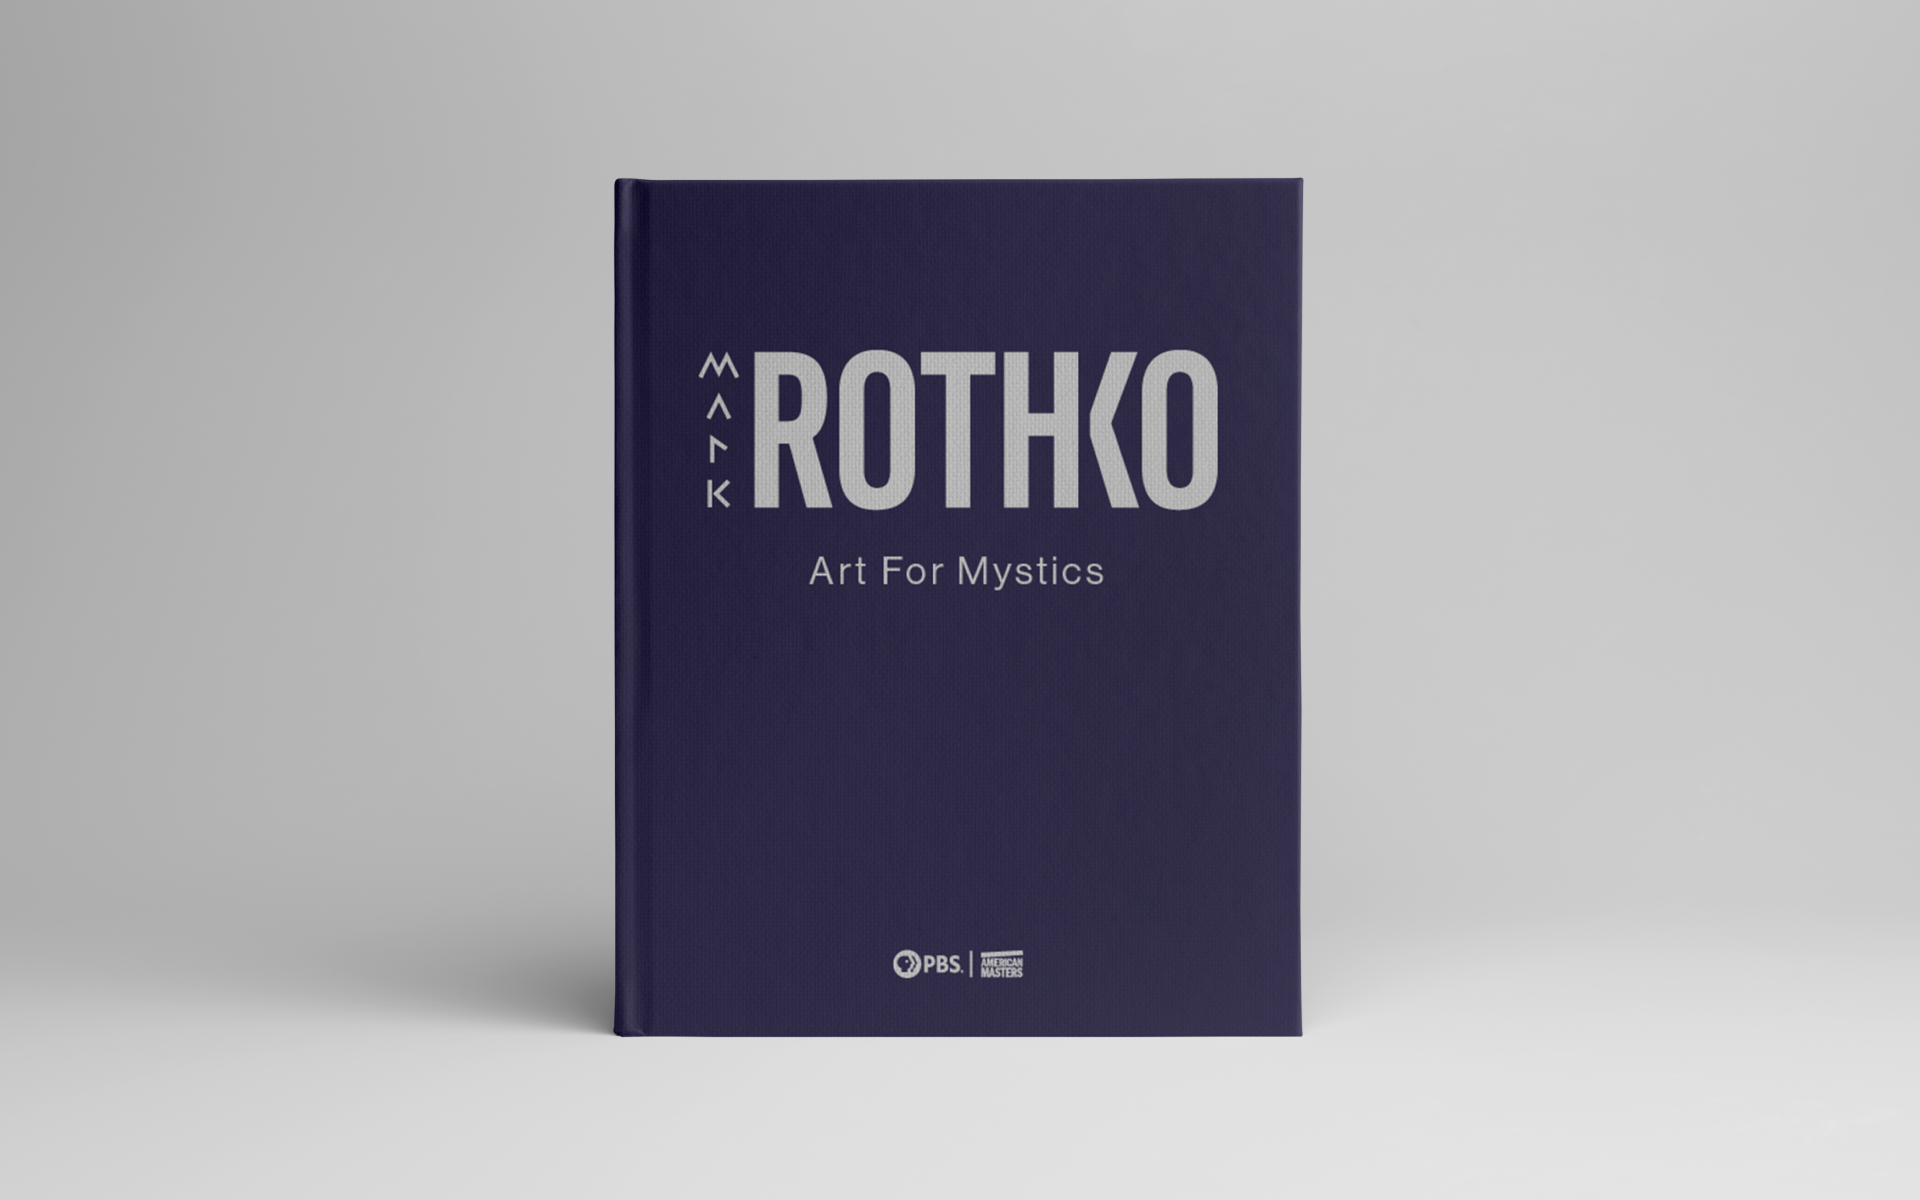
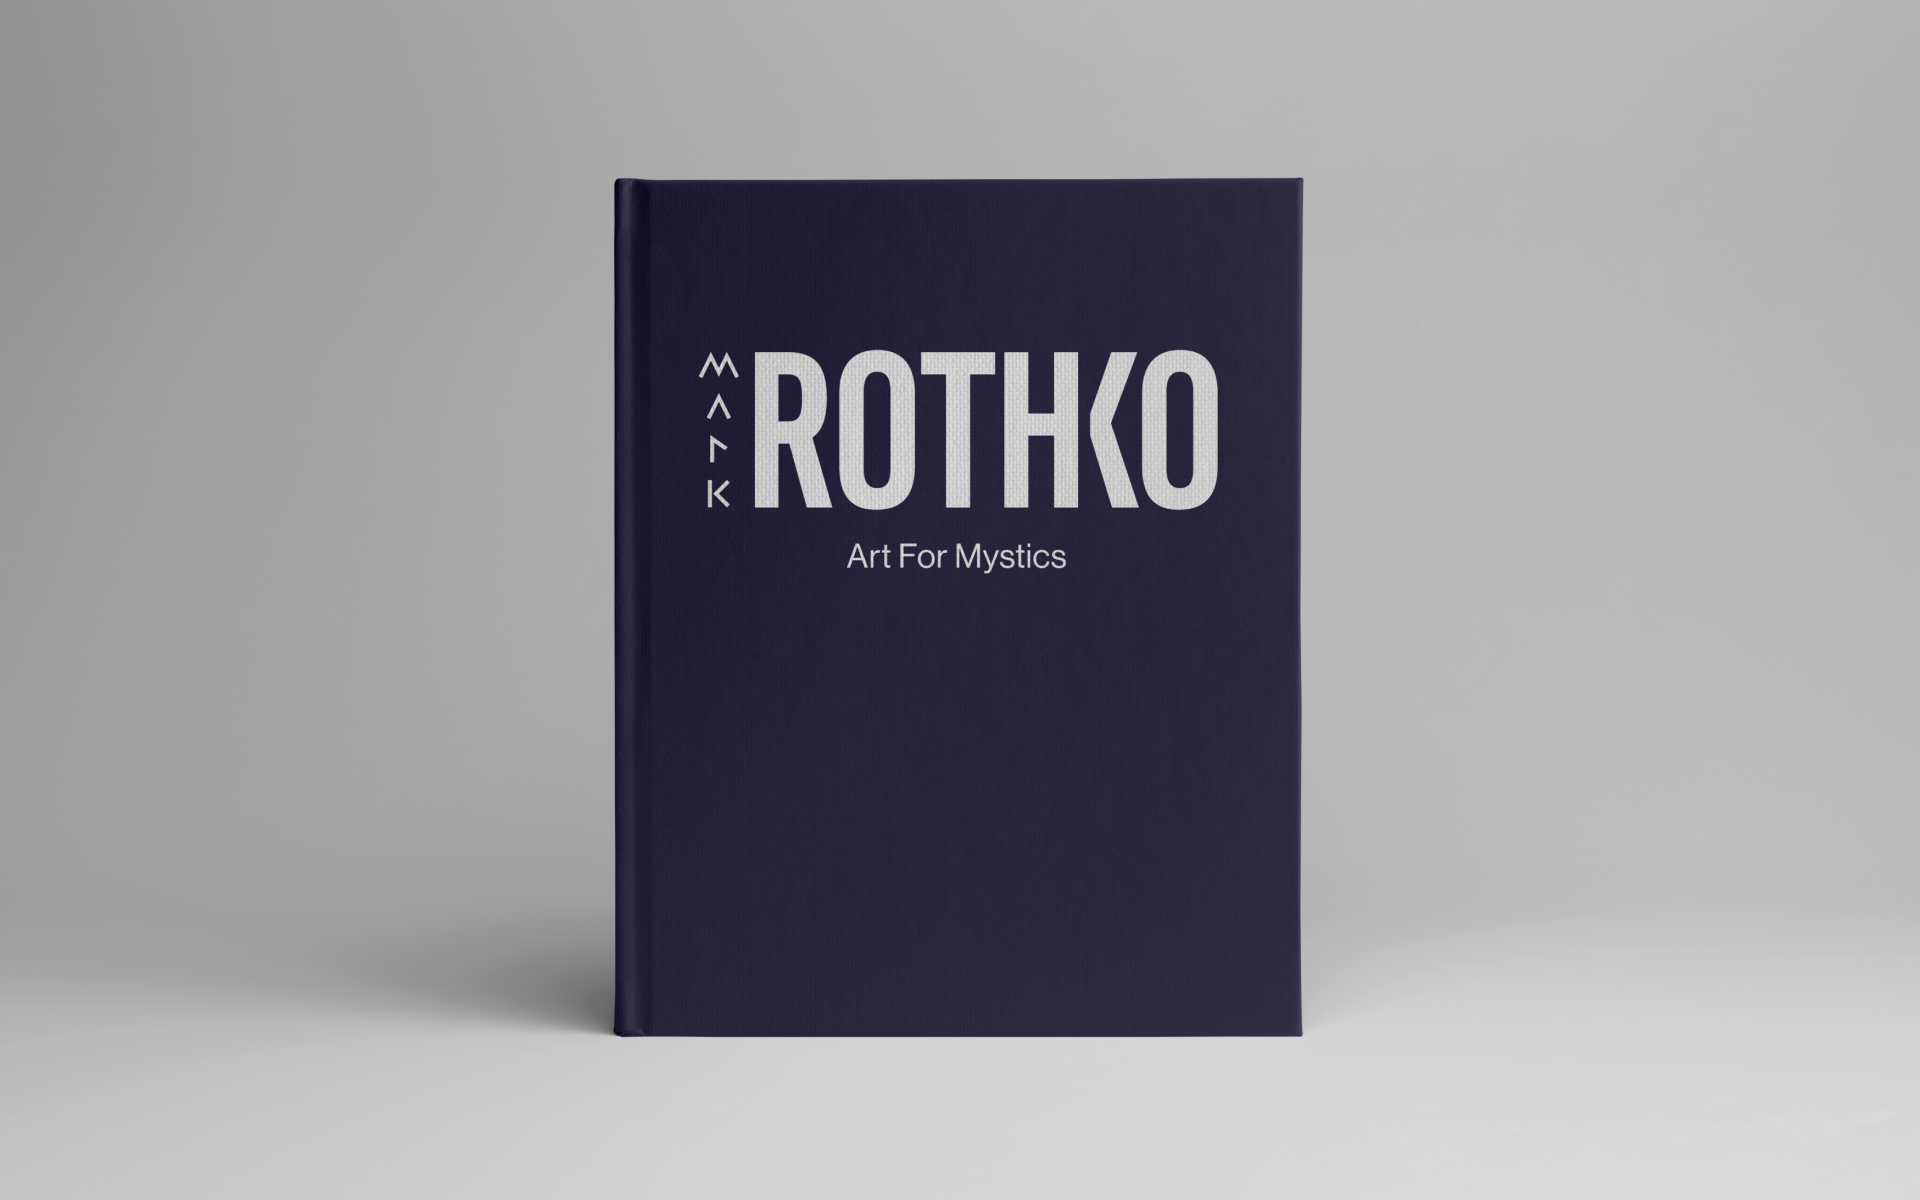
some minor updates

Changed region(s): [[0.375, 0.2775, 0.6562, 0.4933], [0.4688, 0.7708, 0.5312, 0.8325]]

diff --git a/docs/projects/thesis/index.html b/docs/projects/thesis/index.html
@@ -101,6 +101,9 @@
     <div class="project-content"><img class="lightbox" src="./img/Thesis - brochure.png" alt=""/>
         <p class="caption">I identified fives stages in a designer’s career, this brochure shares my recommendations on career moves one might take at each stage. Not all moves are linear, just all careers are not linear.</p>
     </div>
+    <div class="project-content"><img class="lightbox" src="./img/Applied_Designer_thesis_loader.gif" alt="Wireframe animation of a dodecahedron, the Applied Designer logo, slowly rotating on a gray background."/>
+        <p class="caption">More content is loading... (soon).</p>
+    </div>
 </div>
 <div class="grid-2">
     <h2>Process</h2>

diff --git a/docs/projects/referential-mono/index.html b/docs/projects/referential-mono/index.html
@@ -88,7 +88,7 @@
             </div>
 <div class="grid-2">
     <div>
-        <p>Referential Mono is built on a 5x5 grid, inspired by early computing and Islamic History. As a developer and Muslim, this project was an opportunity to combine many aspects of my identity in one.</p>
+        <p>Referential Mono is built on a 5x5 grid, inspired by early computing and Islamic History. As a developer and Muslim, this typeface was an opportunity to combine many aspects of my identity in one project.</p>
     </div>
     <div>
         <p>Ongoing work includes: an Arabic version, motion design, and generative typography.</p>

diff --git a/todo.md b/todo.md
@@ -8,6 +8,8 @@
 ## ASAP
 
 - [ ] cleanup grad show portfolio to basically match website
+- [ ] Rothko, many things are different in the book (esp. animation of spreads in the mockup)
+- [ ] Rothko, update special thanks
 
 - [ ] Thesis: overall clean it up ASAP and remove the note about it... [easier once midterm deck is done]; Can set this up in my bio a bit to speak more maturely as being an advocate and helping others to become advocates.
 - [ ] Need a new tagline! 3 key ideas: advocate/community for designers, cross-disciplinary approach, and typography is central to everything I do.
